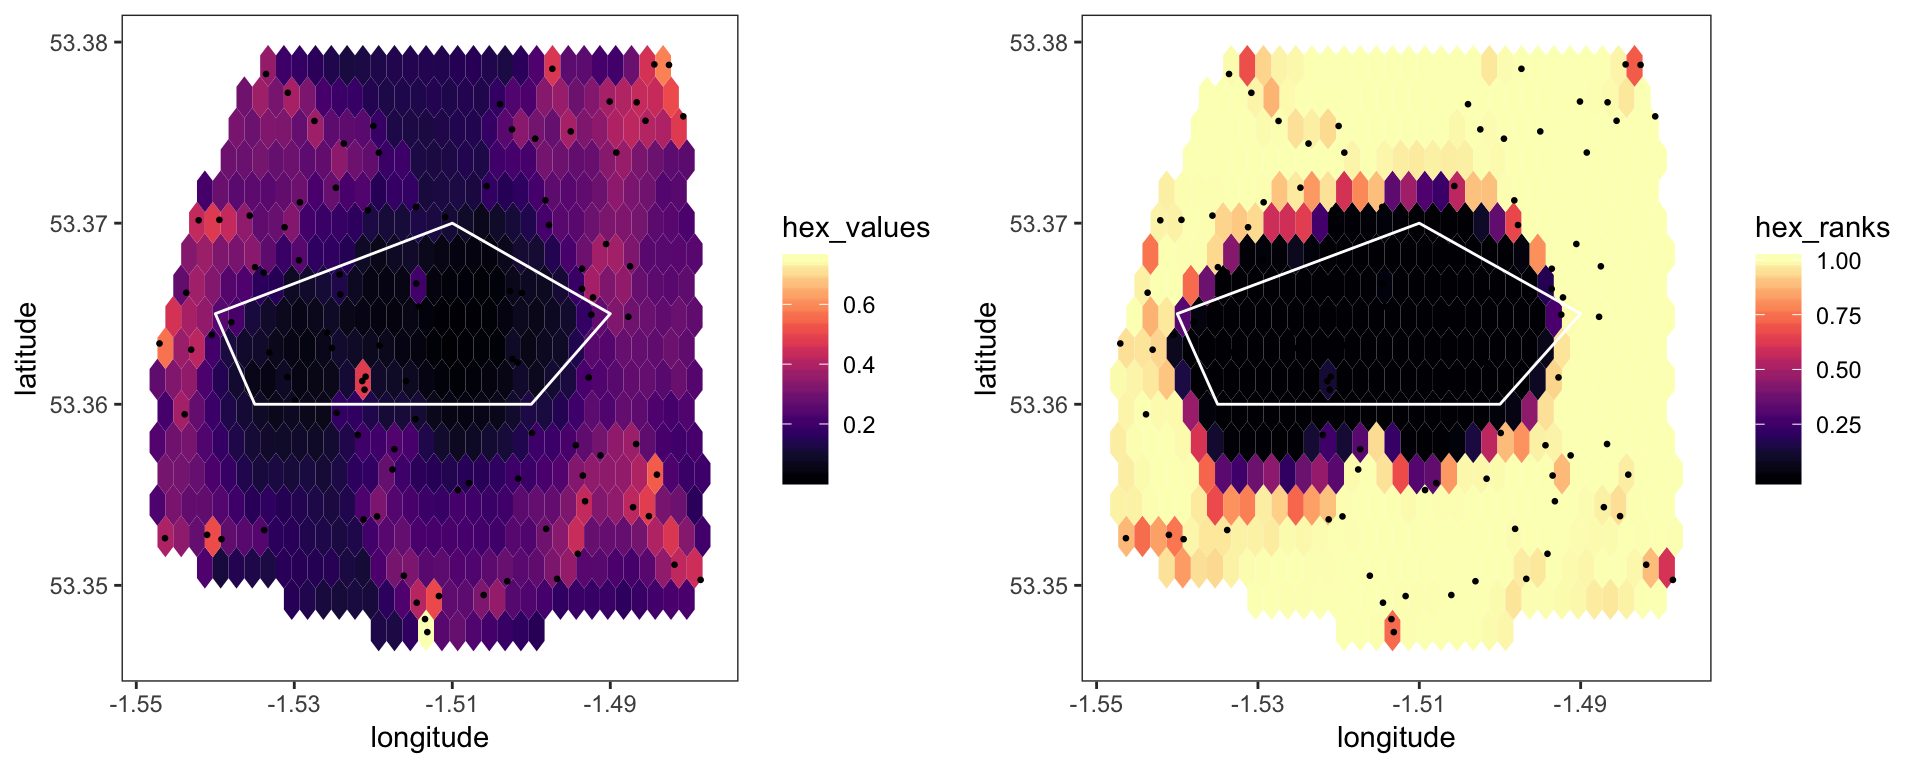
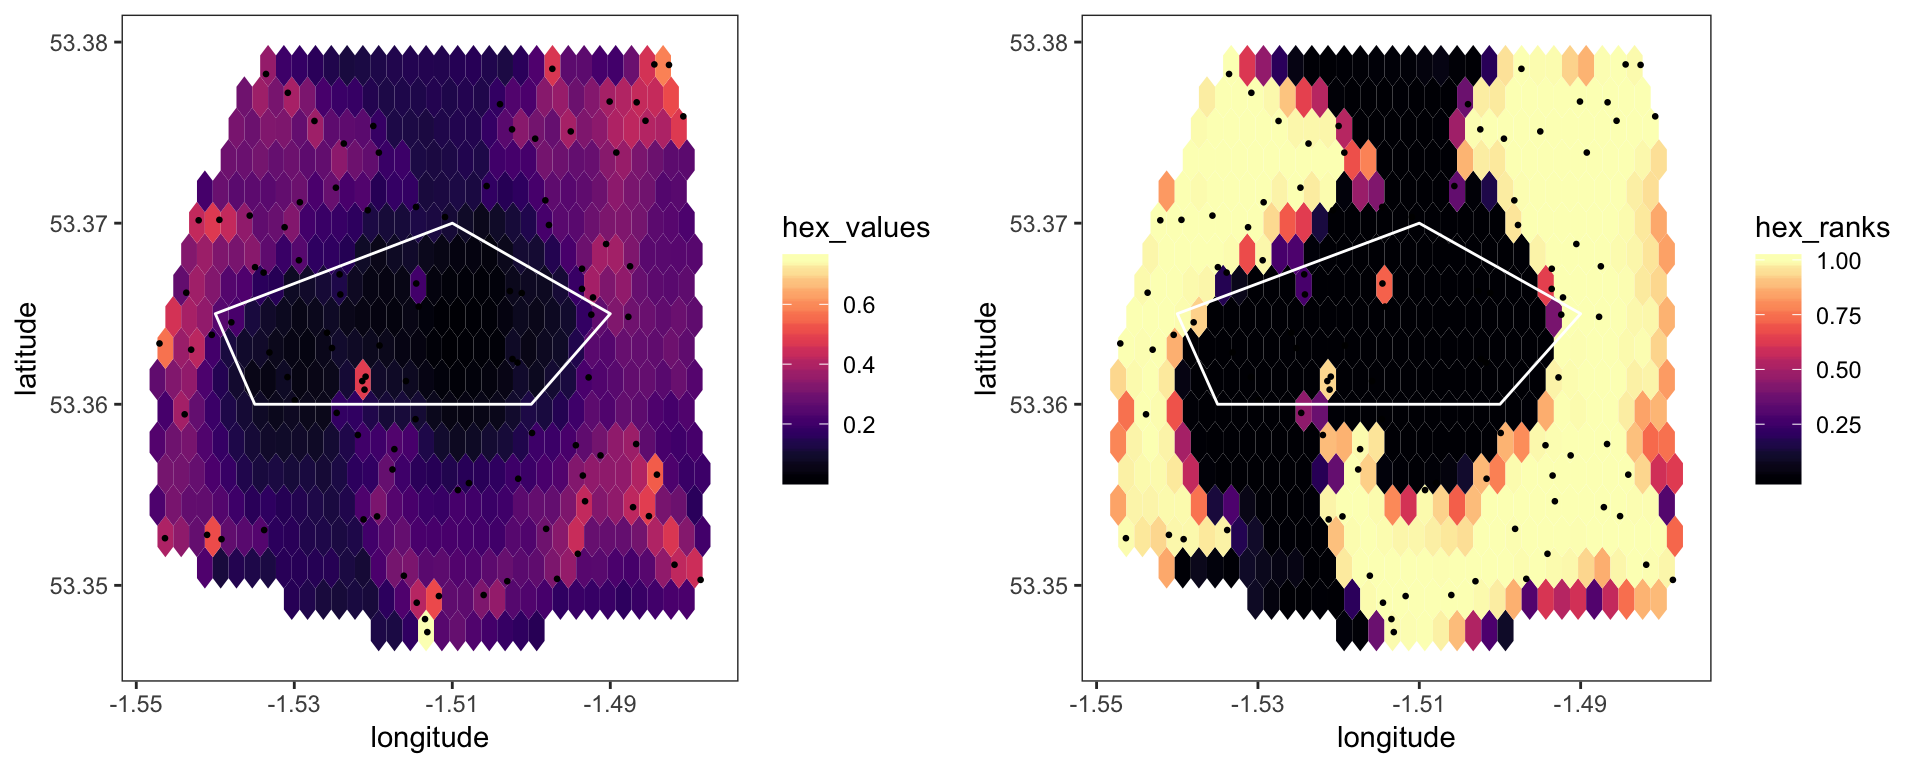
work on tutorial

Changed region(s): [[0.5625, 0.0625, 0.875, 0.8438], [0.7188, 0.3438, 0.75, 0.4062]]

diff --git a/docs/articles/basic-tutorial.html b/docs/articles/basic-tutorial.html
@@ -161,13 +161,14 @@ p &lt;-<span class="st"> </span><span class="kw"><a href="../reference/create_ma
 <div id="running-simulations" class="section level2">
 <h2 class="hasAnchor">
 <a href="#running-simulations" class="anchor"></a>Running simulations</h2>
-<p>Now we are ready to run permutation-testing simulations. The</p>
+<p>Now we are ready to run simulations. The following command computes hex values from pairwise statistics, and compares this map against a series of analogous maps produced after first permuting edge values. The output of this function includes the raw hex values, along with the rank of the raw hex values through the list of permutations (as a proportion). Note that for the sake of this vignette we use the <code>report_progress = FALSE</code> argument to avoid printing too much output, but you should run without this argument.</p>
 <div class="sourceCode"><pre class="sourceCode r"><code class="sourceCode r"><span class="co"># run simulations</span>
 p &lt;-<span class="st"> </span><span class="kw"><a href="../reference/run_sims.html">run_sims</a></span>(p, <span class="dt">n_perms =</span> <span class="fl">1e3</span>, <span class="dt">eccentricity =</span> <span class="fl">0.9</span>, <span class="dt">n_breaks =</span> <span class="dv">1</span>, <span class="dt">report_progress =</span> <span class="ot">FALSE</span>)</code></pre></div>
 <pre><code>## Loading data and parameters
 ## Setting up ellipses
 ## Computing map
 ## Running permutation test</code></pre>
+<p>We can use the <code><a href="../reference/plot_map.html">plot_map()</a></code> function to produce simple plots of the raw hex values, and the hex ranks:</p>
 <div class="sourceCode"><pre class="sourceCode r"><code class="sourceCode r"><span class="co"># plot hex values</span>
 plot1 &lt;-<span class="st"> </span><span class="kw"><a href="../reference/plot_map.html">plot_map</a></span>(p, <span class="dt">barrier_list =</span> barrier_list)
 
@@ -177,7 +178,9 @@ plot2 &lt;-<span class="st"> </span><span class="kw"><a href="../reference/plot_
 <span class="co"># use gridExtra package to arrange ggplot objects</span>
 <span class="kw"><a href="https://www.rdocumentation.org/packages/base/topics/library">library</a></span>(gridExtra)
 <span class="kw"><a href="https://www.rdocumentation.org/packages/gridExtra/topics/arrangeGrob">grid.arrange</a></span>(plot1, plot2, <span class="dt">ncol =</span> <span class="dv">2</span>)</code></pre></div>
-<p><img src="basic-tutorial_files/figure-html/unnamed-chunk-9-1.png" width="960"></p>
+<p><img src="basic-tutorial_files/figure-html/unnamed-chunk-10-1.png" width="960"></p>
+<p>Notice from the hex map that values tend to be higher when nodes are close together - this occurs because of our assumed fall-off of statistical values with distance in our simulations. However, our null model for the permutation test is that there is no association between pairwise statistics and edges, and hence no spatial trend whatsoever, which is clearly not the case here. When we look at the hex ranks from the permutation test, this gives the appearance of artificial areas of significant spatial discontinuity, when in fact these are simply poorly-sampled areas. This is exactly the problem that RMAPI was designed to solve through the use of more refined purmutation testing and null models.</p>
+<p>First, we can re-run the simulations, this time using a value of <code>n_breaks = 20</code>. This divides all edges into bins based on their spatial separation, and permutation testing then only occurs within bins - for example, pairwise values between nearby nodes are only compared against values between other nearby nodes:</p>
 <div class="sourceCode"><pre class="sourceCode r"><code class="sourceCode r"><span class="co"># run simulations</span>
 p &lt;-<span class="st"> </span><span class="kw"><a href="../reference/run_sims.html">run_sims</a></span>(p, <span class="dt">n_perms =</span> <span class="fl">1e3</span>, <span class="dt">eccentricity =</span> <span class="fl">0.9</span>, <span class="dt">n_breaks =</span> <span class="dv">20</span>, <span class="dt">report_progress =</span> <span class="ot">FALSE</span>)</code></pre></div>
 <pre><code>## Loading data and parameters
@@ -192,8 +195,9 @@ plot2 &lt;-<span class="st"> </span><span class="kw"><a href="../reference/plot_
 
 <span class="co"># use gridExtra package to arrange ggplot objects</span>
 <span class="kw"><a href="https://www.rdocumentation.org/packages/gridExtra/topics/arrangeGrob">grid.arrange</a></span>(plot1, plot2, <span class="dt">ncol =</span> <span class="dv">2</span>)</code></pre></div>
-<p><img src="basic-tutorial_files/figure-html/unnamed-chunk-10-1.png" width="960"></p>
-<p>We can also produce an interactive map:</p>
+<p><img src="basic-tutorial_files/figure-html/unnamed-chunk-11-1.png" width="960"></p>
+<p>Now, although the raw map is the same, the hex ranks give a far more accurate pattern because they account for the natural trend with distance.</p>
+<p>We can also produce an interactive map, making it easier to see how discontinuities may correspond to geographic features:</p>
 <div class="sourceCode"><pre class="sourceCode r"><code class="sourceCode r"><span class="co"># produce interactive map</span>
 plot3 &lt;-<span class="st"> </span><span class="kw"><a href="../reference/plot_leaflet.html">plot_leaflet</a></span>(p, <span class="dt">variable =</span> <span class="st">"hex_ranks"</span>)
 <span class="kw"><a href="../reference/overlay_points.html">overlay_points</a></span>(plot3, node_df<span class="op">$</span>long, node_df<span class="op">$</span>lat)</code></pre></div>
@@ -203,12 +207,14 @@ plot3 &lt;-<span class="st"> </span><span class="kw"><a href="../reference/plot_
 <div id="fitting-a-model" class="section level2">
 <h2 class="hasAnchor">
 <a href="#fitting-a-model" class="anchor"></a>Fitting a model</h2>
+<p>The second method implemented in RMAPI is to fit a specific model to the relationship between pairwise values and spatial distance. We can use the <code><a href="../reference/fit_model.html">fit_model()</a></code> function to fit either a linear model (<code>type = 1</code>) or an exponential model (<code>type = 2</code>). Clearly based on the pattern in the data we would want the exponential model in this example:</p>
 <div class="sourceCode"><pre class="sourceCode r"><code class="sourceCode r"><span class="co"># fit model to data</span>
 p &lt;-<span class="st"> </span><span class="kw"><a href="../reference/fit_model.html">fit_model</a></span>(p, <span class="dt">type =</span> <span class="dv">2</span>)
 
 <span class="co"># plot model fit over data</span>
 <span class="kw"><a href="../reference/plot_dist.html">plot_dist</a></span>(p)</code></pre></div>
-<p><img src="basic-tutorial_files/figure-html/unnamed-chunk-12-1.png" width="672"></p>
+<p><img src="basic-tutorial_files/figure-html/unnamed-chunk-13-1.png" width="672"></p>
+<p>When running simulations with <code>null_method = 2</code>, the model fit is subtracted from the pairwise values, and the permutation testing procedure is then carried out on the residuals. This is slightly less flexible than the previous method, in that we must have an idea of the specific relationship between distance and statistical value, but can be more powerful as a result:</p>
 <div class="sourceCode"><pre class="sourceCode r"><code class="sourceCode r"><span class="co"># run simulations</span>
 p &lt;-<span class="st"> </span><span class="kw"><a href="../reference/run_sims.html">run_sims</a></span>(p, <span class="dt">null_method =</span> <span class="dv">2</span>, <span class="dt">n_perms =</span> <span class="fl">1e3</span>, <span class="dt">eccentricity =</span> <span class="fl">0.9</span>, <span class="dt">n_breaks =</span> <span class="dv">1</span>, <span class="dt">report_progress =</span> <span class="ot">FALSE</span>)</code></pre></div>
 <pre><code>## Loading data and parameters
@@ -223,7 +229,8 @@ plot2 &lt;-<span class="st"> </span><span class="kw"><a href="../reference/plot_
 
 <span class="co"># use gridExtra package to arrange ggplot objects</span>
 <span class="kw"><a href="https://www.rdocumentation.org/packages/gridExtra/topics/arrangeGrob">grid.arrange</a></span>(plot1, plot2, <span class="dt">ncol =</span> <span class="dv">2</span>)</code></pre></div>
-<p><img src="basic-tutorial_files/figure-html/unnamed-chunk-13-1.png" width="960"></p>
+<p><img src="basic-tutorial_files/figure-html/unnamed-chunk-14-1.png" width="1152"></p>
+<p>Note that there is nothing to stop us running the above procedure with more than 1 <code>n_breaks</code>, in which case the spatial permutation test is carried out on residuals, which could be useful if we believe our model is only a rough description of the actual relationship.</p>
 </div>
   </div>
 
